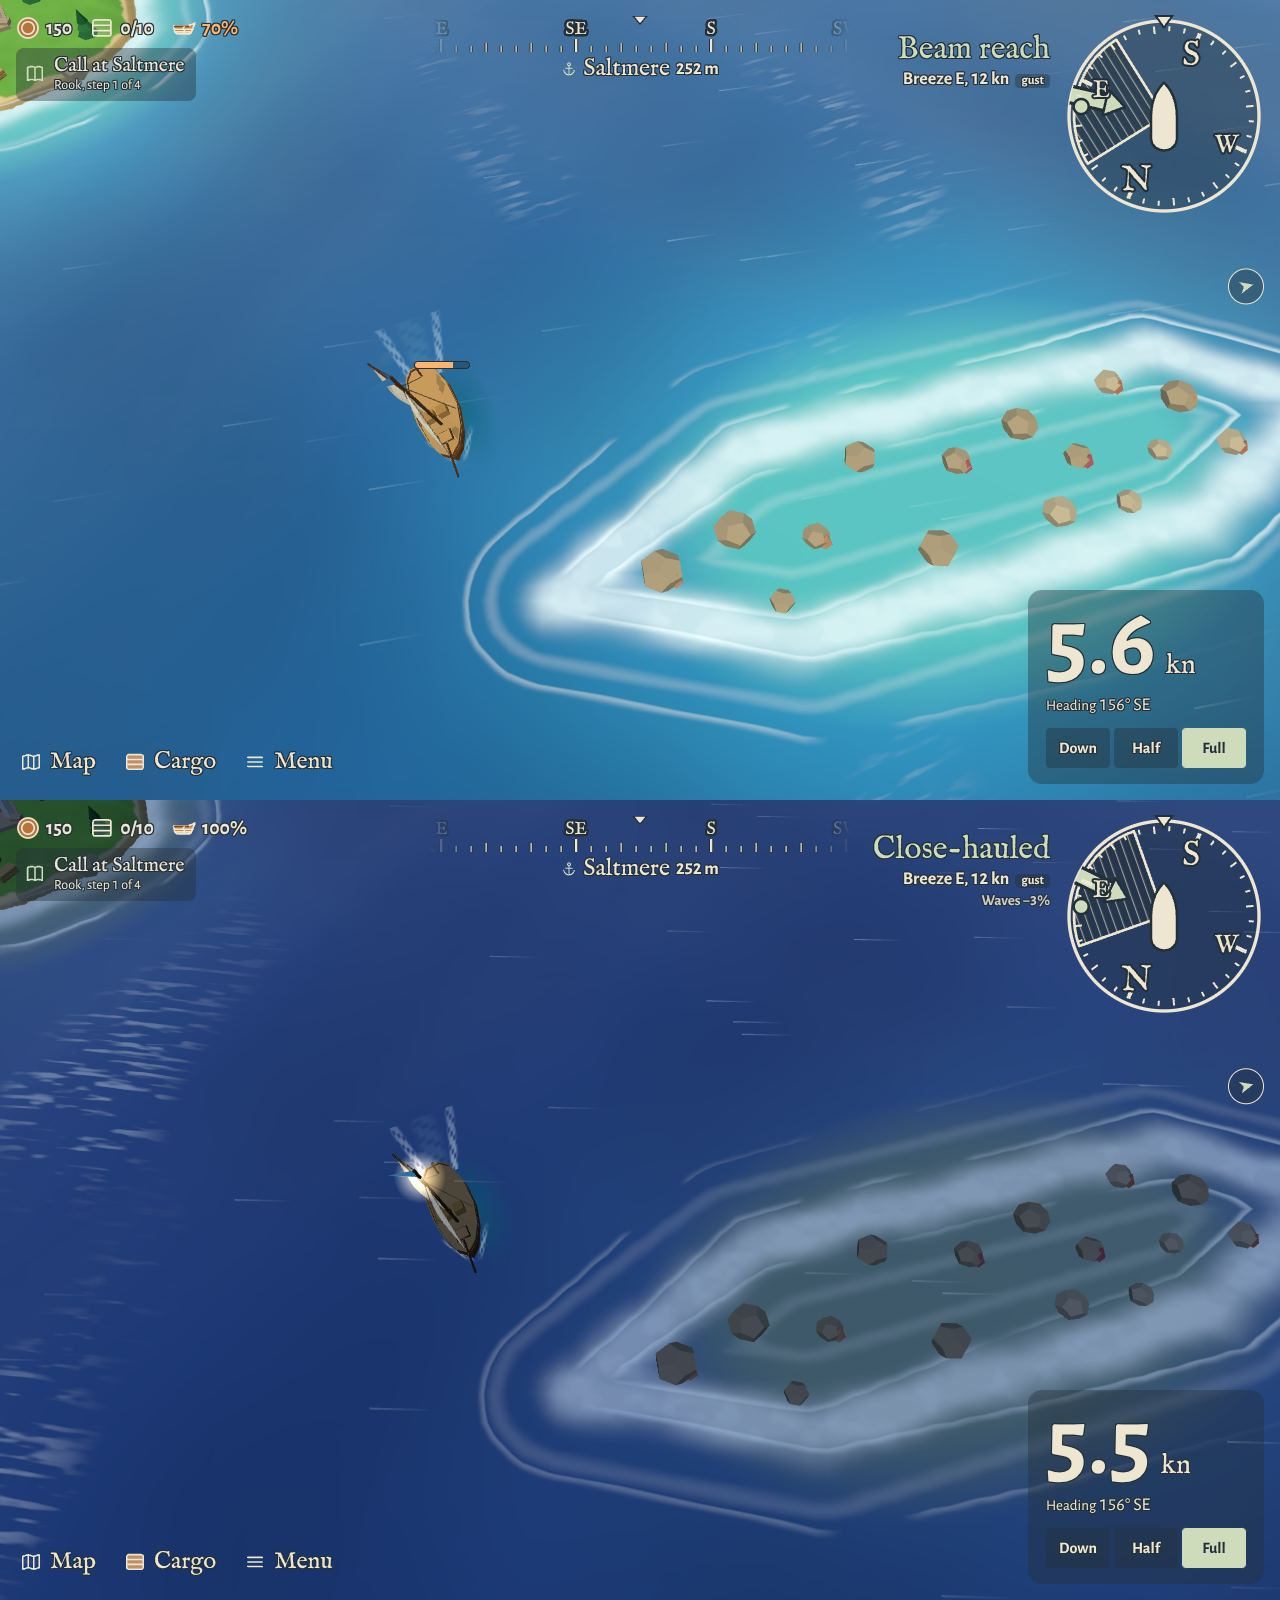
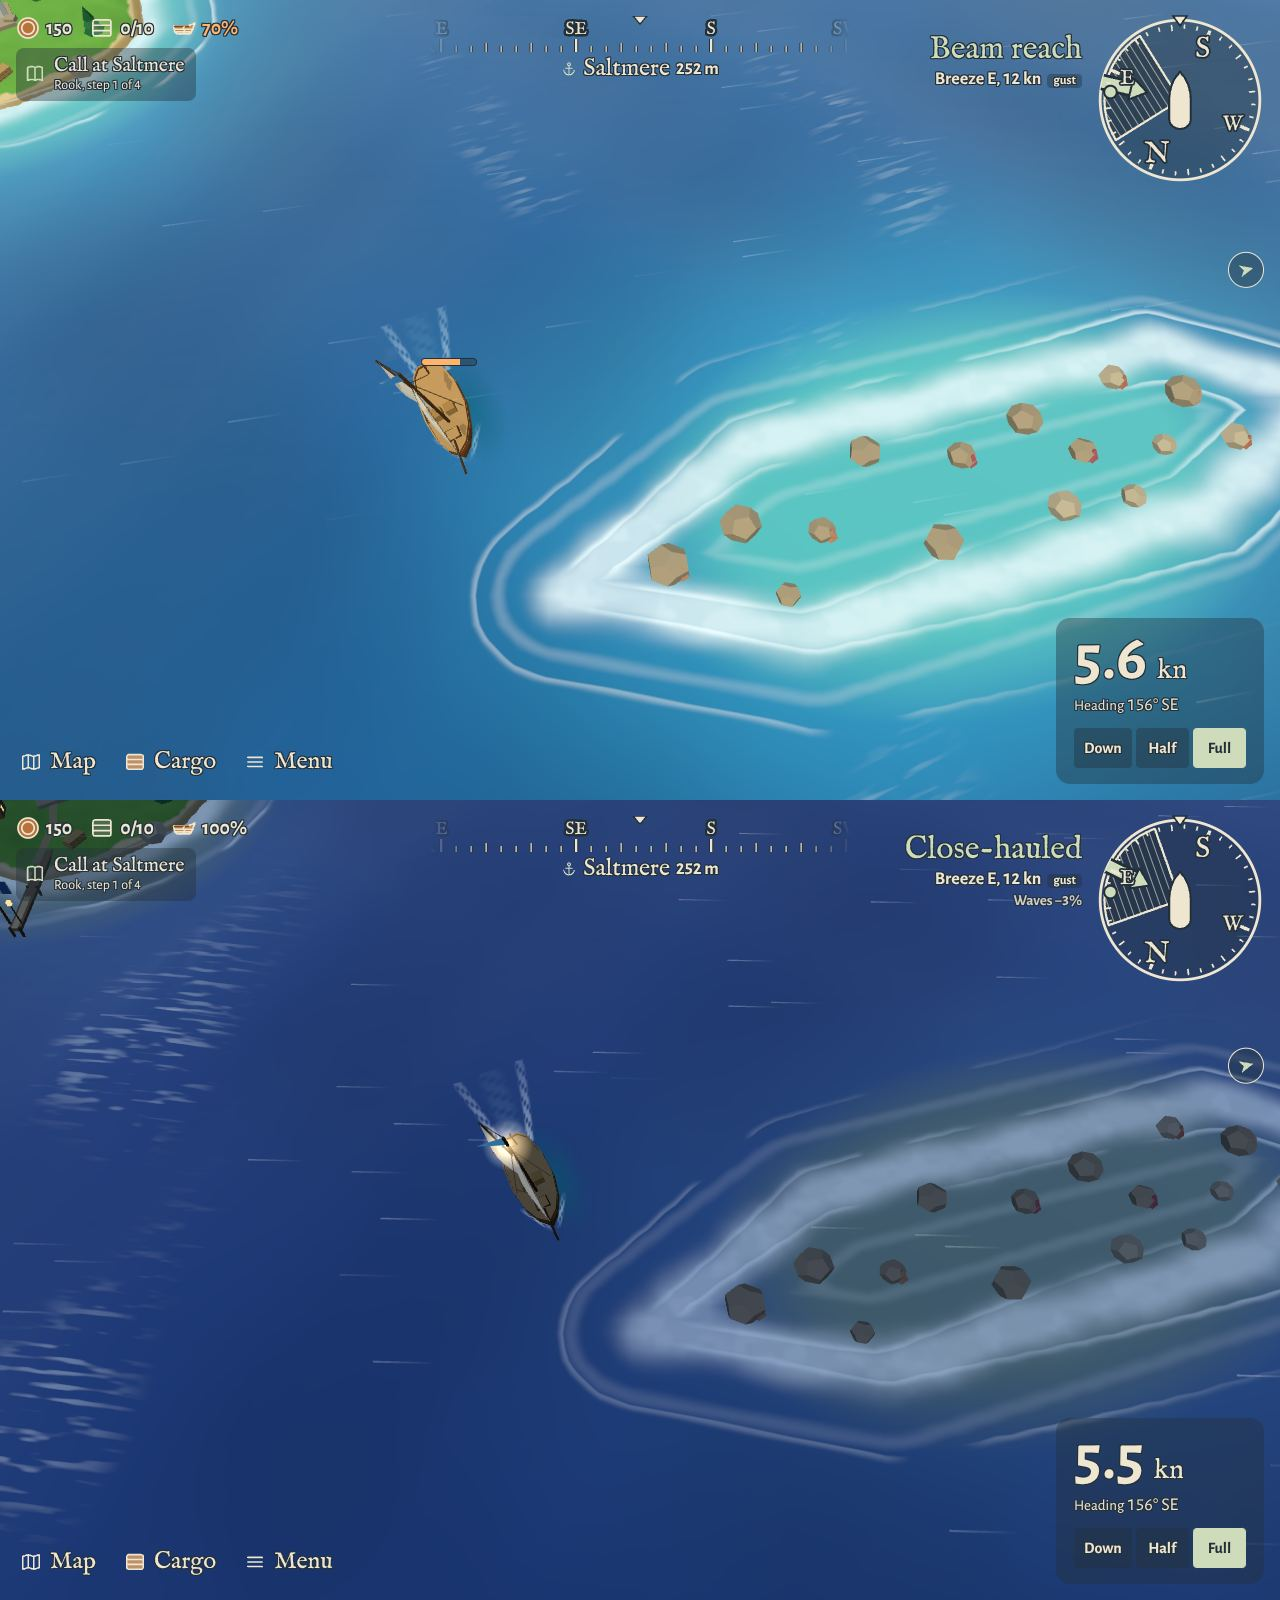
Sea HUD: compass 168 px and speed 64 px on desktop (Guillaume, #441)
Claude-Session: https://claude.ai/code/session_013jvdBxQBuWDPhf2kMM7YaB

diff --git a/src/ui/hud/instrument.css b/src/ui/hud/instrument.css
@@ -10,7 +10,7 @@
   display: flex;
   flex-direction: column;
   gap: 4px;
-  min-width: 236px;
+  min-width: 208px;
   padding: 14px 18px 16px;
 }
 .hud-speed {

diff --git a/docs/decisions/0273-sea-hud-in-three-clusters-quiet-hud-and-idle-fade.md b/docs/decisions/0273-sea-hud-in-three-clusters-quiet-hud-and-idle-fade.md
@@ -10,12 +10,12 @@ Wave 2 of v1.5 "A real game" (issue #441, [decision 0268](0268-a-real-game-rebui
 
 - **Five places, three clusters of meaning.** Top left the status (gold, hold, hull, quest cargo on deck, the tracked quest's step on a faint ink plate). Top centre the heading strip (a compass tape round her heading with her course marked, the course's name and distance, a race's or a run's clock and the race's ×). Top right the wind compass. Bottom right the instrument. Bottom left the actions (Map, Cargo, Menu, and Trade once moored with the pier sign off screen).
 - **The wind compass** is a boat-up dial: the card turns with her heading, a thick arrow comes in from where the wind blows (bolder as it rises), the no-go zone is a solid wedge at 55% ink with a crisp light edge and a hatch, never red; the point of sail and "Breeze NE, 12 kn" sit beside it, the weather, forecast, storm belt, current and waves lines under them (storms and squalls in the storm amber). Tapping the dial opens the sailing tips, as before. The chart keeps its own north-up dial (`chartDial.ts`) until the chart part (#444) redraws it.
-- **Text on the scene** wears a hard 1 px ink halo; only the dial and the instrument have a backing, a faint ink plate at 40% that is always on. Speed is the biggest number (96 px desktop, 58 px phone).
+- **Text on the scene** wears a hard 1 px ink halo; only the dial and the instrument have a backing, a faint ink plate at 40% that is always on. Speed is the biggest number (64 px desktop, 58 px phone; Guillaume picked the smaller size after the full-size shots).
 - **Quiet HUD** (Settings › Display) keeps the compass and the instrument; Map and Menu stay as their icons so a touch player can still pause. It replaces the speed log switch: the sailing numbers are now always on screen unless the player asks for quiet.
 - **Idle fade:** the status and the strip fade to 60% after 5 s without a change (a new number, a new course, or a turn of 20°), and come back at once.
 - **Wind compass switch** (Settings › Game) shows only on the hardest level and only takes the dial away there.
 - **Port signs** stand off the shoreline: their foot is pushed out from the island by `portSignSeaward`. They read as halo text with a sage Dock/Trade button. Boat labels are unchanged.
-- **Data:** backings, the fade and the tape's span are in `src/data/tuning/hud.json` (the `?tune` panel's Sea HUD tab). Sizes are theme tokens (art director): text uses the type scale (`--fs-*`, 13 px the smallest on a phone), and `theme.json` › `hud` holds the safe margin (16 px desktop, 12 px phone, never under 12, checked), the compass (200 px desktop), the speed digits and the tape's width. The tape shows only the points' names at 45°. Colours are theme tokens, the storm amber and danger red come from the reserved signal colours in `rules.json`.
+- **Data:** backings, the fade and the tape's span are in `src/data/tuning/hud.json` (the `?tune` panel's Sea HUD tab). Sizes are theme tokens (art director): text uses the type scale (`--fs-*`, 13 px the smallest on a phone), and `theme.json` › `hud` holds the safe margin (16 px desktop, 12 px phone, never under 12, checked), the compass (168 px desktop, Guillaume), the speed digits and the tape's width. The tape shows only the points' names at 45°. Colours are theme tokens, the storm amber and danger red come from the reserved signal colours in `rules.json`.
 - **Code:** `src/ui/hud.ts` coordinates one module per cluster in `src/ui/hud/` (status, headingStrip, windCompass + windDial + windLines, instrument, actions), plus seaToasts, pressWarning and edgeArrow. The clusters are built in code; `index.html` keeps only the overlays pinned to the scene and the sailing tips dialog.
 
 ## Consequences
